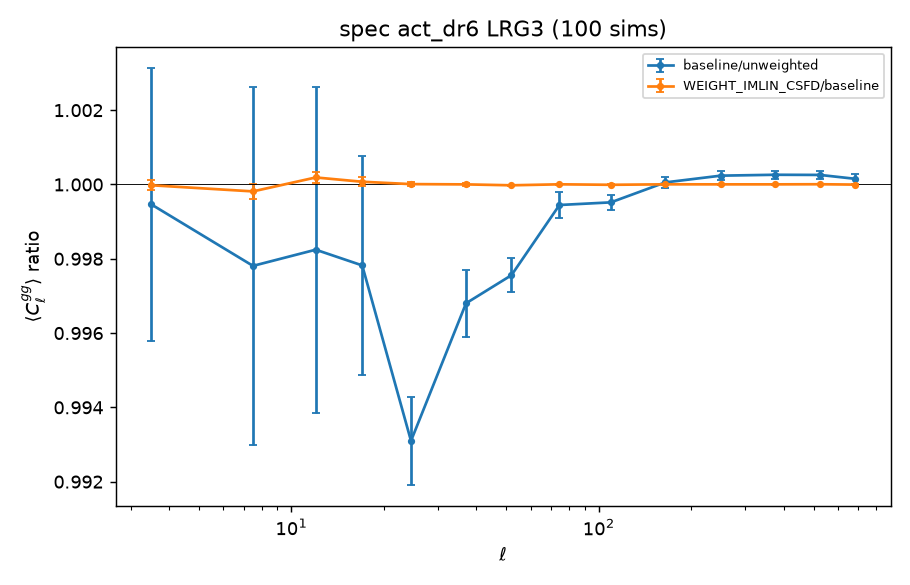
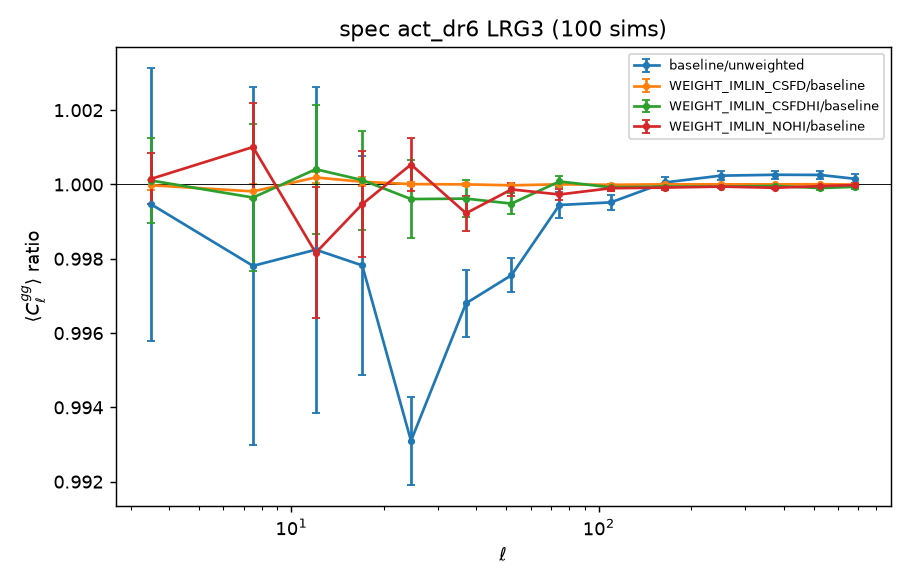
Document spec CSFDHI/NOHI variants and test 2; add CLAUDE.md NERSC hand-off
- README: 100-mock results for the spec CSFDHI and NOHI dust variants,
  test 2 (CSFD-SFD vs Lenz+19 CIB) summary and what is left of it
- CLAUDE.md: status as of 2026-10-26 and the NERSC to-do list (data
  dust tests, Euclid-style test, CIB frequencies, ELG SysNet bugs, Cl)
- figures/variants/spec_*: comparisons now include CSFDHI and NOHI
- .gitignore: data/cib_nside256/ (regenerable CIB cache)

Changed region(s): [[0.1538, 0.1846, 0.9538, 0.5231], [0.6769, 0.0923, 0.9846, 0.2462]]

diff --git a/CLAUDE.md b/CLAUDE.md
@@ -1,0 +1,62 @@
+# Y3_mock_imweights: working notes
+
+`README.md` covers what this repo does, the map choices and every result so far. This file is the hand-off: the state as of 2026-10-26 and what is left, most of it on NERSC.
+
+## Status (2026-10-26)
+
+Done, all on Narval:
+- Linear imaging regression on 100 mocks (HDU 1) for photo (BGS, LRG1-3) and spec (BGS, LRG1-3, QSO, QSO1/2), both lensmaps (act_dr6 sims 1-100, planck_pr4 sims 260-359).
+- All dust variants, including the spec `CSFDHI`/`NOHI` added 2026-10-22, with the 100-mock comparisons in `figures/variants/`.
+- Map-level dust tests (`dust_map_check.py`) and test 2 at 857 GHz (`cib_check.py`).
+- `outputs/` (weight sidecars + randoms caches, ~46 GB) and `data/` (templates, CSFD, HI4PI, Lenz CIB) are git-ignored. They went to NERSC by Globus on 2026-10-26: Narval `/lustre06/project/6033532/schiaren/Y3_mock_imweights/` → `/global/cfs/cdirs/desicollab/users/schiarenza/Y3_mock_imweights/` (task 47ca1100-d147-11f1-b253-0effda64b40f). `env/` was not transferred.
+
+The key open question: CSFD − SFD (the CIB removed by CSFD) correlates with CMB κ at r ≈ −0.5. Mocks can't show whether fitting dust maps removes κ-correlated signal, because mock galaxies don't correlate with the real sky. Only the real catalogs can answer it (tasks 1-3 below).
+
+## NERSC to-do
+
+### 0. Setup
+- `git pull`, then `bash create_env.sh`.
+- Point `config.yaml` at the NERSC paths. Every path in it is a Narval path now: spec/photo mock and randoms roots (gfarren's directories), DA2 `hpmaps`, `pixweight-1-dark.fits`, the Planck PR4 and ACT DR6 κ alms and masks.
+- `data/photo_templates_nside256_nest.fits` and `data/ext/` came with the transfer, so `build_dust_templates.py` does not need rerunning. Check the file is there.
+- Quick check that the env works: `python dust_map_check.py` on a compute node should reproduce `figures/dust_map_check.txt`.
+
+### 1. Dust test on the real photo catalogs (the decisive test)
+Regress the real photo samples (BGS, LRG1-3) with the same variants as the mocks, then compare the weights, Cgg and Cgκ (ACT and Planck):
+- `WEIGHT_IMLIN` CSFD+HI (baseline)
+- `_SFDHI` SFD+HI
+- `_CSFDONLY` CSFD
+- CSFD+SFD+HI, optional, to see the CIB direction act on real data. It is degenerate on mocks and was dropped there; on data it is a diagnostic only.
+
+A Cgκ shift between variants is what would show the CIB/κ effect matters.
+
+**Missing: a data-regression driver.** `Y3_AMR_nersc/regress_photo_samples.py` uses the old setup: the old CSFD from pixweight, only GALDEPTH extinction-corrected, and a CSFD-only map list. Write a driver in this repo (e.g. `regress_photo_data.py`) that reuses `common.py` and `regress_photo_mocks.py`:
+- the same template file, map lists, `*DEPTH*` SFD extinction correction, N/S/DES regions and variants loop
+- the real catalog + randoms in place of the mock + compressed-randoms cache. The compression is exact for data too, since templates are constant per pixel.
+- sidecar output, never modifying the catalogs
+
+Validate it first by running it on one mock and comparing with the existing sidecar in `outputs/photo/`.
+
+### 2. The same test on the real spec catalogs
+Fit the four spec variants on the real catalogs: `WEIGHT_IMLIN` (DESI default), `_CSFD` (EBV_DIFF referenced to CSFD), `_CSFDHI`, `_NOHI`. Compare Cgκ. This says whether the DESI default's EBV_DIFF, which contains −(CIB part of SFD), has the same issue. It needs a spec data driver too, the counterpart of `regress_spec_mocks.py`.
+
+### 3. Euclid-style test on data
+For each tracer, compute r_ℓ(δ_g, X) for X = SFD, CSFD, CSFD − SFD, EBV_DIFF_GR/RZ and the Lenz CIB. Overlay the prediction through the CIB, r(δ_g, CIB)·r(CIB, X). The pseudo-Cℓ / r_ℓ helpers in `dust_map_check.py` and `cib_check.py` (`pcl`, `binned`, `BINS`) can be reused.
+
+### 4. Finish test 2 (CIB frequencies)
+Download the Lenz+19 545 and 353 GHz maps (`2.5e+20_gp20`) and, optionally, the 857 GHz `4.0e+20_gp40` map, from https://doi.org/10.7910/DVN/8A1SR3, in a browser. On Narval the scripted downloads returned 6 KB XML error pages: `data/ext/lenz19_cib/archives/{353,545}_2.5e20_gp20.7z` and `857_4.0e20_gp40.7z` are not maps, so delete them. Unpack into `data/ext/lenz19_cib/<freq>/<mask>/` and rerun `cib_check.py`.
+- Optional: use the 857 GHz half-mission maps (already downloaded) to estimate how much the CIB map's noise dilutes the predicted r(D, CIB)·r(CIB, κ). That tells whether the ~2× excess at ℓ ≥ 90 is real.
+
+### 5. ELG SysNet on the new mocks
+100 mocks, HDU 1: ACT sims 1-100, Planck sims 260-359. Scripts in `Y3_AMR_nersc/act_scripts/` (`prepare_sysnet_ACT.py`, `run_sysnet.sh`, `add_sysnet_ACT.py`). Before running:
+- **Bug:** `add_sysnet_ACT.py:122` computes `dpix = hp.ang2pix(256, dth, dphi)` in RING ordering, while line 94 and the prep step use `nest=True`. The SysNet weights would land on the wrong pixels. Add `nest=True`.
+- **Bug:** `run_sysnet.sh:36` uses `${tracer}`, which the script never defines.
+- The scripts still point at the old `2026-01-27-sofia` mocks. Repoint them at the new spec mocks (`LogNormal_Mocks/{act_dr6,planck_pr4}/ELG/`).
+
+### 6. Cℓ measurement (Gerrit)
+Gerrit measures the analysis Cℓ from the sidecars in `outputs/` on the correct grid. The `figures/variants/` pseudo-Cℓ are a diagnostic only. Point him to the NERSC copy; the sidecar format is in `README.md` → Outputs.
+
+## Conventions
+- Run on compute nodes only (Narval: `srun`/`sbatch`, account `rrg-wperciva`).
+- Never modify the mock or data catalogs; write sidecars.
+- Depth maps stay extinction-corrected with SFD in every variant. That matches how the targets were selected (fluxes dereddened with SFD), so it's a consistency requirement, not a choice to vary.
+- New results go into `README.md`; update this file's status and to-do as tasks are done.

diff --git a/README.md b/README.md
@@ -58,6 +58,25 @@ These are shot-noise-subtracted pseudo-Cℓ at nside 256 over the full mock foot
 - **Photo mode removal** (baseline/unweighted, ℓ = 2–5 | 6–9 | 10–14): BGS 0.79–0.80 | 0.91 | 0.96; LRG1–3 0.80–0.87 | 0.90–0.93 | 0.96–0.98. It is below 1% for ℓ ≳ 30.
 - **Spec mode removal** is much milder: LRG 0.97–1.00 at ℓ < 20; QSO/QSO1/QSO2 within about 0.5–1% of 1.
 - **CSFD-only vs the CSFD+HI baseline:** up to about 3% differences at ℓ < 10 (HI removes a little more power). **Spec-like BGS** removes about 13% less power at ℓ = 2–5 than the 9-map photo default.
+- **Spec dust-block variants** (added 2026-10-22, appended to the existing sidecars):
+
+  | column | dust maps |
+  |---|---|
+  | `WEIGHT_IMLIN_CSFDHI` | CSFD + HI in place of EBV_DIFF_GR/RZ, the photo-style dust block (like-for-like with photo) |
+  | `WEIGHT_IMLIN_NOHI` | the DESI default without HI |
+
+  - **CSFD+HI vs the default** (mean over 100 mocks; σ is the error on that mean): ⟨Cgg⟩ is 0.5–1.5% *higher* for LRG and BGS at ℓ < 30. The largest shift is act_dr6 LRG2 at ℓ = 10–14 (1.0153 ± 0.0030). For ℓ ≥ 30 the change is ≤ 0.5%. QSO and LRG3 change by ≤ 0.6%. The weights differ by 6–10e-3 rms, ten times more than in the SFD↔CSFD swap. On mocks, EBV_DIFF therefore removes slightly more power than a directly fitted CSFD.
+  - **No HI vs the default:** ≤ 1% at ℓ < 30 (largest: act_dr6 BGS at ℓ = 6–9, 1.010 ± 0.003) and ≤ 0.13% at ℓ ≥ 30. The weights differ by 4–7e-3 rms.
+  - Both shifts are small next to the mode-removal correction itself, but unlike the SFD↔CSFD swap they are not negligible at ℓ < 30.
+
+## Test 2: CSFD − SFD vs an independent CIB (`cib_check.py`, `figures/cib_check.{txt,png}`)
+
+This checks CSFD − SFD against the Lenz, Doré & Lagache (2019) CIB, which unlike the CSFD LSS map is not reconstructed from galaxies. It has only been run at 857 GHz on the N_HI < 2.5e20 mask, over the photo footprint ∩ CSFD cosmology mask (fsky 0.14).
+- **r(CSFD − SFD, CIB)** is about −0.10 at ℓ < 32, −0.34 to −0.39 at ℓ = 32–92, and −0.50 to −0.58 at ℓ ≥ 92, so CSFD − SFD is CIB-dominated.
+  - The HI control gives r ≈ 0.01–0.09, as expected, since the Lenz CIB is HI-cleaned.
+- **r with the CIB at ℓ ≳ 90:** SFD 0.22–0.28, CSFD 0.15–0.19. CSFD removes about a third of SFD's CIB correlation.
+- **Euclid-style test:** the measured r(CSFD − SFD, κ) is 1.5–2.5× the CIB-route prediction r(D, CIB)·r(CIB, κ) at ℓ ≥ 90, and far larger at ℓ < 60. This fits with the CSFD correction itself containing galaxy-traced structure. Noise in the CIB map dilutes the prediction, so the low-ℓ numbers shouldn't be over-interpreted.
+- **Not done yet:** 545/353 GHz and the 857 GHz 4.0e20 mask. The Dataverse downloads (doi:10.7910/DVN/8A1SR3) came back as error pages, so those maps have to be downloaded by hand into `data/ext/lenz19_cib/<freq>/<mask>/`; `cib_check.py` picks them up automatically.
 
 ## Method notes
 
